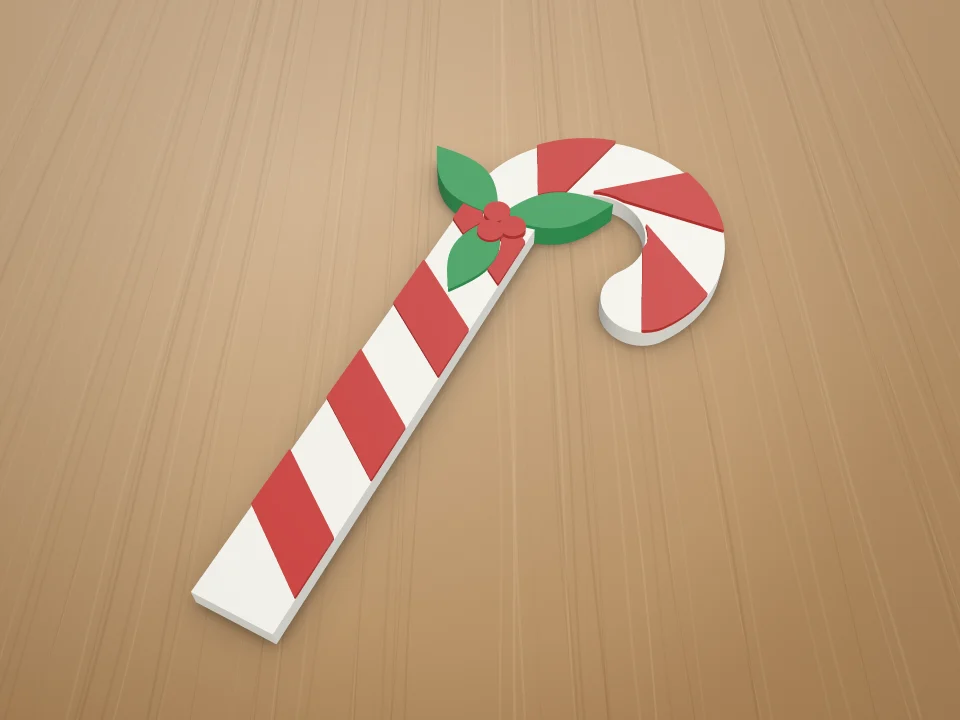
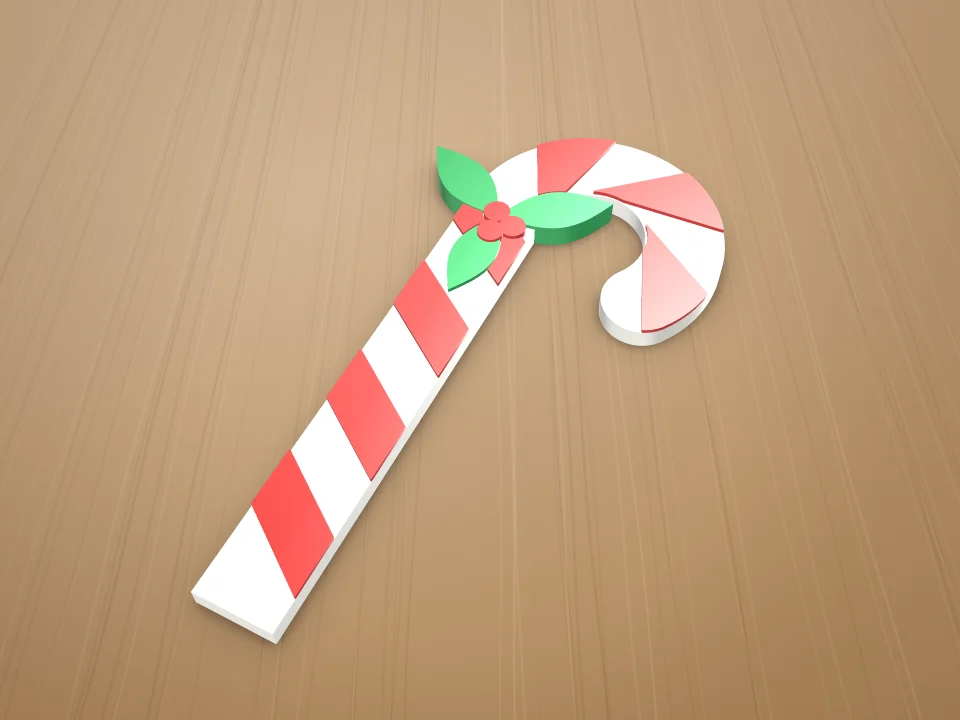
Acabados seda y metal en la vista de lo navideño

Changed region(s): [[0.3438, 0.1833, 0.75, 0.7028], [0.25, 0.6111, 0.3438, 0.825], [0.1875, 0.825, 0.2812, 0.8861]]

diff --git a/src/content/events.js b/src/content/events.js
@@ -31,9 +31,9 @@ export const EVENTS = [
       { id: 'baston-verde', grupo: 'arbol', nuevo: true, objeto: 'baston-caramelo', titulo: 'Bastón verde y blanco', texto: 'Sin acebo y con más rayas, en verde: un clásico distinto para combinar con el resto del árbol.', params: { holly: false, stripes: 9, colorStripe: '#2E9E58' } },
       { id: 'zigzag-verde', grupo: 'mesa', nuevo: true, objeto: 'arbol-zigzag', titulo: 'Arbolito zigzag verde', texto: 'Niveles facetados sobre una base dorada y estrella arriba. Se imprime parado, sin soportes.', params: {} },
       { id: 'zigzag-rojo', grupo: 'mesa', nuevo: true, objeto: 'arbol-zigzag', titulo: 'Arbolito rojo', texto: 'El mismo diseño en rojo con la estrella dorada: junto a los verdes arma un bosquecito para la mesa.', params: { colorTree: '#C9302C', height: 120, diameter: 70 } },
-      { id: 'zigzag-dorado', grupo: 'mesa', nuevo: true, objeto: 'arbol-zigzag', titulo: 'Arbolito dorado', texto: 'En dorado seda con base verde: el más elegante para el aparador o la repisa.', params: { colorTree: '#C9A24A', colorBase: '#2E9E58', colorStar: '#F1F1EC', tiers: 4, height: 100, diameter: 60 } },
+      { id: 'zigzag-dorado', grupo: 'mesa', nuevo: true, objeto: 'arbol-zigzag', titulo: 'Arbolito dorado', texto: 'En dorado seda con base verde: el más elegante para el aparador o la repisa.', params: { colorTree: '#C9A24A', colorBase: '#2E9E58', colorStar: '#F1F1EC', finish: 'metal', tiers: 4, height: 100, diameter: 60 } },
       { objeto: 'adorno-navidad', id: 'bola', grupo: 'arbol', titulo: 'Bola con nombre', texto: 'Una para cada integrante de la familia. Roja con letras blancas, el clásico.', params: { shape: 'bola', text: 'Sofía' } },
-      { objeto: 'adorno-navidad', id: 'estrella', grupo: 'arbol', titulo: 'Estrella dorada', texto: 'En dorado seda con letras blancas queda elegante colgada del árbol.', params: { shape: 'estrella', text: 'Mateo', colorBase: '#C9A24A', colorText: '#F1F1EC' } },
+      { objeto: 'adorno-navidad', id: 'estrella', grupo: 'arbol', titulo: 'Estrella dorada', texto: 'En dorado seda con letras blancas queda elegante colgada del árbol.', params: { shape: 'estrella', text: 'Mateo', colorBase: '#C9A24A', colorText: '#F1F1EC', finish: 'seda' } },
       { objeto: 'adorno-navidad', id: 'arbolito', grupo: 'arbol', titulo: 'Arbolito', texto: 'Verde con borde blanco, como un pino nevado. Ideal para regalar en la oficina.', params: { shape: 'arbol', text: 'Lola', colorBase: '#2E9E58', colorText: '#F1F1EC' } },
       { objeto: 'estrella-arbol', id: 'estrella-punta', grupo: 'arbol', titulo: 'Estrella para la punta', texto: 'Facetada en dorado seda, brilla con las luces del árbol. Se ata a la rama de arriba.', params: { style: 'faceted' } },
       { objeto: 'estrella-arbol', id: 'estrella-calada', grupo: 'arbol', titulo: 'Estrella calada', texto: 'Con ventanitas triangulares: las luces se ven a través.', params: { style: 'open', color: '#F1F1EC' } },

diff --git a/src/viewer/Viewer.js b/src/viewer/Viewer.js
@@ -27,8 +27,13 @@ function cssVar(name, fallback) {
  * glow: pieza que deja pasar la luz (pantallas de lámpara). Brilla más de frente que en los bordes,
  * como un plástico fino iluminado desde adentro.
  */
-function plaMaterial(color, layers, glow = false) {
-  const mat = new THREE.MeshStandardMaterial({ color, roughness: 0.5, metalness: 0, envMapIntensity: 0.35 });
+// Acabados solo para la vista: «seda» imita el PLA seda y «metal» un filamento metalizado.
+const FINISHES = {
+  seda: { roughness: 0.3, metalness: 0.45, envMapIntensity: 1.25 },
+  metal: { roughness: 0.2, metalness: 0.92, envMapIntensity: 1.6 },
+};
+function plaMaterial(color, layers, glow = false, finish = '') {
+  const mat = new THREE.MeshStandardMaterial({ color, roughness: 0.5, metalness: 0, envMapIntensity: 0.35, ...(FINISHES[finish] || {}) });
   if (glow) { mat.emissive = new THREE.Color(color).lerp(new THREE.Color('#FFC77A'), 0.55); mat.emissiveIntensity = 0; }
   if (!layers && !glow) return mat;
   mat.extensions = { derivatives: true };
@@ -215,7 +220,7 @@ export class Viewer {
     const tris = parts.reduce((s, p) => s + p.volumes.reduce((t, g) => t + g.attributes.position.count / 3, 0), 0);
     const smooth = tris <= SMOOTH_MAX_TRIS;
     for (const p of parts) {
-      const mat = plaMaterial(p.color, layers || !!p.glow, !!p.glow);
+      const mat = plaMaterial(p.color, layers || !!p.glow, !!p.glow, p.finish);
       // `flat`: diseños facetados a propósito (low poly): se muestran con caras planas.
       const soft = smooth && !p.flat;
       if (!soft) mat.flatShading = true;

diff --git a/src/objects/index.js b/src/objects/index.js
@@ -86,6 +86,23 @@ export const OBJECTS = [
   gingerbread, candyCane, zigzagTree,
 ];
 
+// Acabado de la vista previa (mate, seda o metal) para los diseños navideños: solo cambia cómo se ve en pantalla,
+// el color de filamento lo elige cada uno. Se agrega acá para no repetirlo en cada diseño.
+const FINISH_DEFAULT = { 'adorno-navidad': 'seda', 'estrella-arbol': 'metal', 'copo-nieve': 'seda', servilletero: 'seda', 'arbol-conico': 'seda', 'galleta-jengibre': 'mate', 'baston-caramelo': 'seda', 'arbol-zigzag': 'seda' };
+const FINISH_SECTION = { title: 'Acabado de la vista', items: [{ key: 'finish', type: 'cards', label: 'Brillo', help: 'Solo cambia cómo se ve acá. En la impresora el brillo lo da el filamento: elegí uno «seda» o metalizado.', options: [
+  { value: 'mate', label: 'Mate', hint: 'PLA común' },
+  { value: 'seda', label: 'Seda', hint: 'Brillo satinado' },
+  { value: 'metal', label: 'Metal', hint: 'Metalizado' },
+] }] };
+for (const o of OBJECTS) {
+  const d = FINISH_DEFAULT[o.id];
+  if (!d) continue;
+  o.defaults.finish = d;
+  o.sections.push(FINISH_SECTION);
+  const build = o.build;
+  o.build = function (p, orientation) { const r = build.call(this, p, orientation); for (const pt of r.parts) if (pt) pt.finish = p.finish; return r; };
+}
+
 const SUB_OF = new Map();
 for (const c of CATEGORIES) for (const sub of c.subs || []) for (const id of sub.ids) SUB_OF.set(id, { category: c, sub });
 // La categoría de cada diseño sale de la tabla de arriba (así la etiqueta de la tarjeta coincide con el filtro).

diff --git a/src/content/thumbs.js b/src/content/thumbs.js
@@ -1,4 +1,4 @@
 // Generado por `npm run miniaturas`. No lo edites a mano.
-export const THUMB_VERSION = 'mvzjmdyo';
+export const THUMB_VERSION = 'mvzkd09h';
 export const THUMBS = new Set(["adorno-navidad","arbol-conico","arbol-zigzag","bandeja-cajon","baston-caramelo","botellero","botellero-copas","caja-panuelos","cartel-deslizante","cartel-wifi","copo-nieve","display-qr","estrella-arbol","florero-low-poly","galleta-jengibre","lampara-led","llavero","llavero-articulado","llavero-inicial","llavero-lettering","llavero-pared-panal","llavero-placa","llavero-qr","maceta","organizador","organizador-controles","organizador-labiales","organizador-maquillaje","placa","porta-capsulas","portalapices-panal","posavasos","posavasos-monstera","servilletero","soporte-auriculares","soporte-celular","soporte-mandos","soporte-notebook","tachito-tapa"]);
 export const VARIANT_THUMBS = new Set(["botellero-copas--patas","lampara-led--acanalada","lampara-led--espiral","lampara-led--hongo","lampara-led--ondulada","lampara-led--texturada","llavero--barra","llavero--capsula","llavero--placa","soporte-celular--manzana","soporte-celular--ondas","soporte-celular--ranuras","soporte-celular--robot","soporte-celular--texto"]);

diff --git a/src/content/ideaThumbs.js b/src/content/ideaThumbs.js
@@ -1,3 +1,3 @@
 // Generado por `npm run fotos-ideas`. No lo edites a mano.
-export const IDEA_THUMB_VERSION = 'mvzjv9pe';
+export const IDEA_THUMB_VERSION = 'mvzkgn2h';
 export const IDEA_THUMBS = new Set(["navidad--arbolito","navidad--baston","navidad--baston-verde","navidad--bola","navidad--cartel","navidad--cono","navidad--copos","navidad--estrella","navidad--estrella-calada","navidad--estrella-punta","navidad--etiqueta","navidad--galleta","navidad--galleta-nombre","navidad--posavasos","navidad--servilleteros","navidad--souvenir","navidad--zigzag-dorado","navidad--zigzag-rojo","navidad--zigzag-verde"]);
